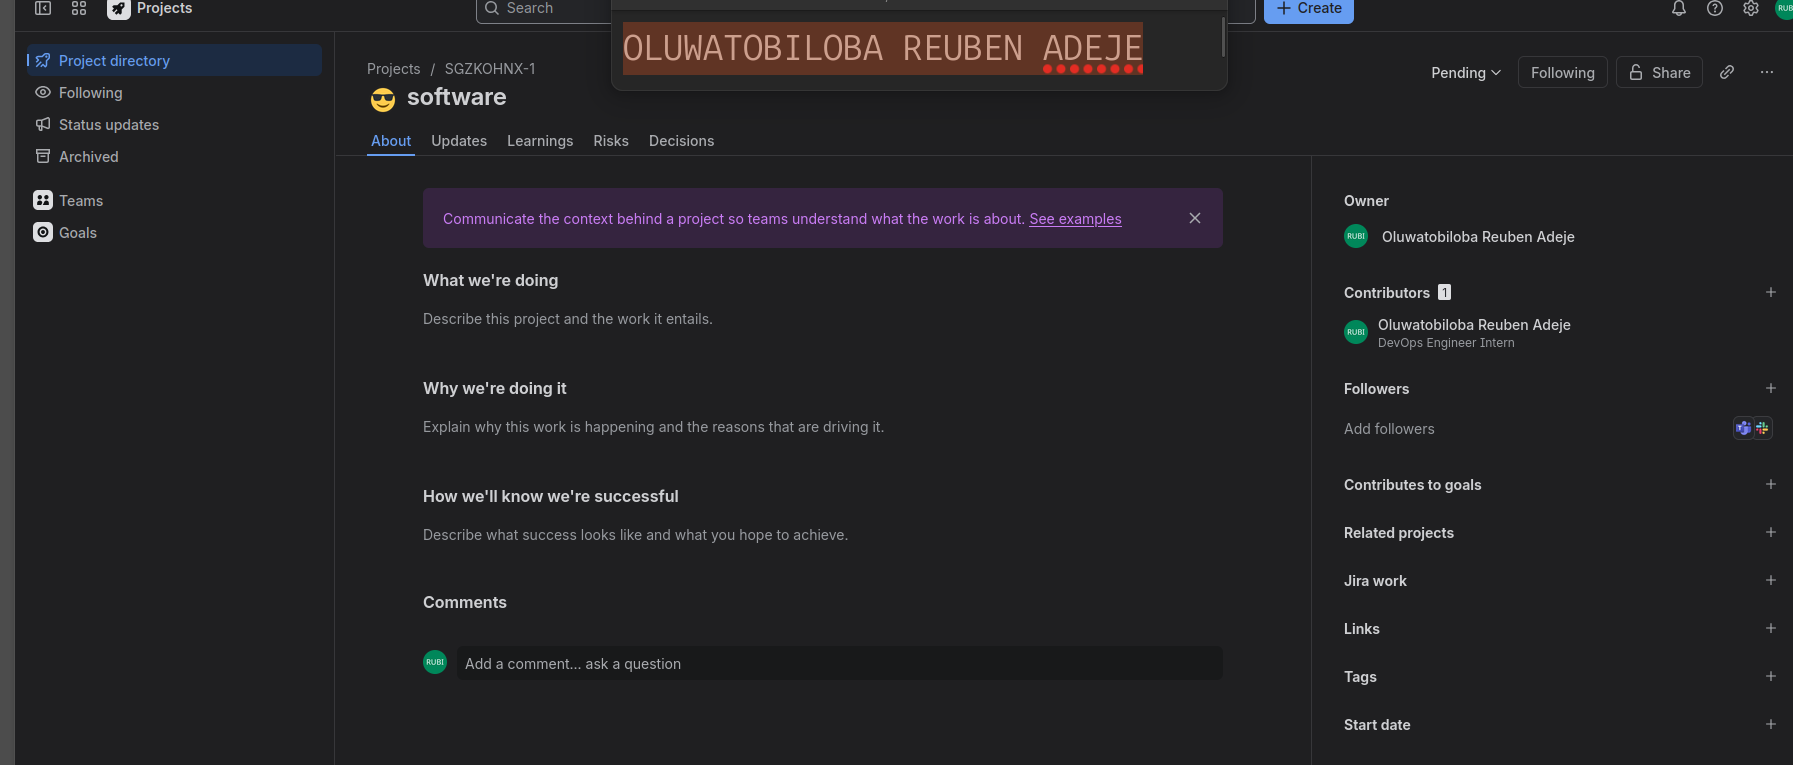
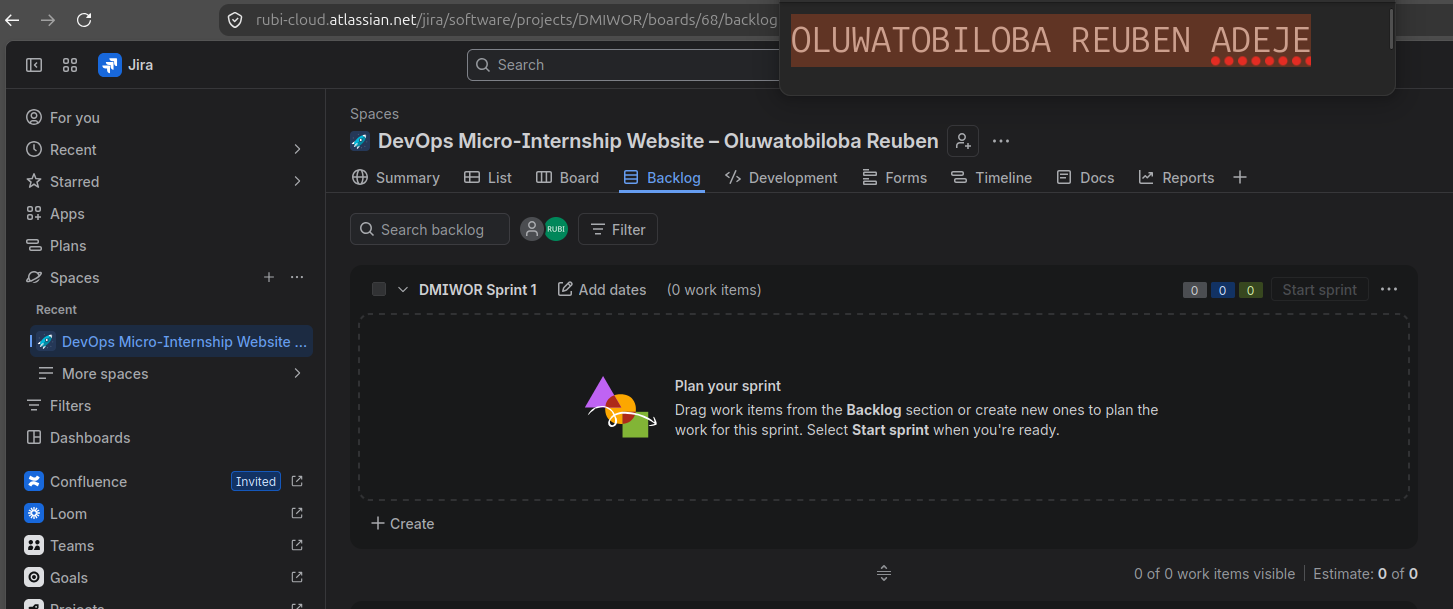
completed assignment-01

diff --git a/week-05-devops-lifecycle/assignment-01-create-your-jira-account-and-setup-profile.md b/week-05-devops-lifecycle/assignment-01-create-your-jira-account-and-setup-profile.md
@@ -20,7 +20,7 @@ Create or access your Jira Cloud account and reach the Jira Software workspace s
 
 #### Screenshot 1 — Jira welcome page, dashboard, or main workspace after successful login, with your name or avatar visible
 
-Add your screenshot here.
+![screenshot](./screenshots/assignment-1-tk1-screen-1.png)
 
 ---
 
@@ -34,7 +34,7 @@ Confirm your email address if Atlassian requests verification.
 
 #### Screenshot 2 (if applicable) — Confirmation screen after email verification, or the inbox showing the Atlassian verification email subject
 
-Add your screenshot here.
+![screenshot](./screenshots/assignment-1-tk2-screen-2.png)
 
 ---
 
@@ -58,7 +58,7 @@ Update your Jira profile with your full name, a job title or role (e.g. "Aspirin
 
 #### Screenshot 3 — Updated profile page showing your full name, role/title, and bio
 
-Add your screenshot here.
+![screenshot](./screenshots/assignment-1-tk3-screen-3.png)
 
 ---
 
@@ -72,13 +72,13 @@ Locate the project list and open a project's Board or Backlog, and view Project 
 
 #### Screenshot 4 — "View all projects" page showing at least one project
 
-Add your screenshot here.
+![screenshot](./screenshots/assignment-1-tk4-screen-4.png)
 
 ---
 
 #### Screenshot 5 — Opened project showing either the Board or Backlog screen
 
-Add your screenshot here.
+![screenshot](./screenshots/assignment-1-tk4-screen-5.png)
 
 ---
 
@@ -94,13 +94,13 @@ Add your screenshot here.
 
 # Completion Checklist
 
-- [ ] Task 1: Jira Software Cloud account created or existing account accessed (Screenshot 1)
-- [ ] Task 2: Email verification completed, or a Google sign-in note included (Screenshot 2 or Notes)
-- [ ] Task 3: Professional profile updated with full name, role/title, and bio (Screenshot 3)
-- [ ] Task 4: Projects page, Board or Backlog, and Project settings explored without making changes (Screenshots 4 & 5)
-- [ ] No Jira issues created
-- [ ] Full Name visible in required screenshots
-- [ ] No sensitive data exposed
+- [x] Task 1: Jira Software Cloud account created or existing account accessed (Screenshot 1)
+- [x] Task 2: Email verification completed, or a Google sign-in note included (Screenshot 2 or Notes)
+- [x] Task 3: Professional profile updated with full name, role/title, and bio (Screenshot 3)
+- [x] Task 4: Projects page, Board or Backlog, and Project settings explored without making changes (Screenshots 4 & 5)
+- [x] No Jira issues created
+- [x] Full Name visible in required screenshots
+- [x] No sensitive data exposed
 
 ---
 
